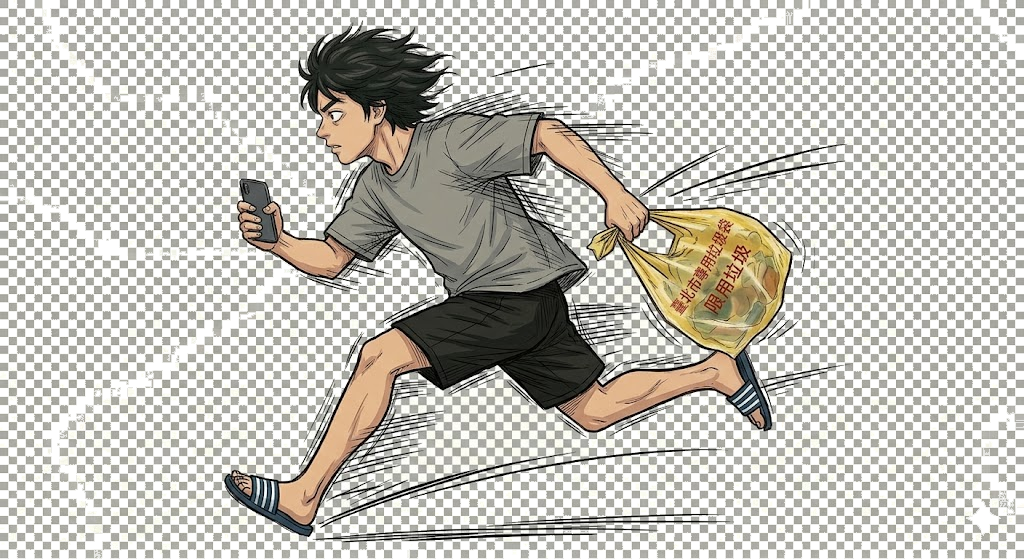
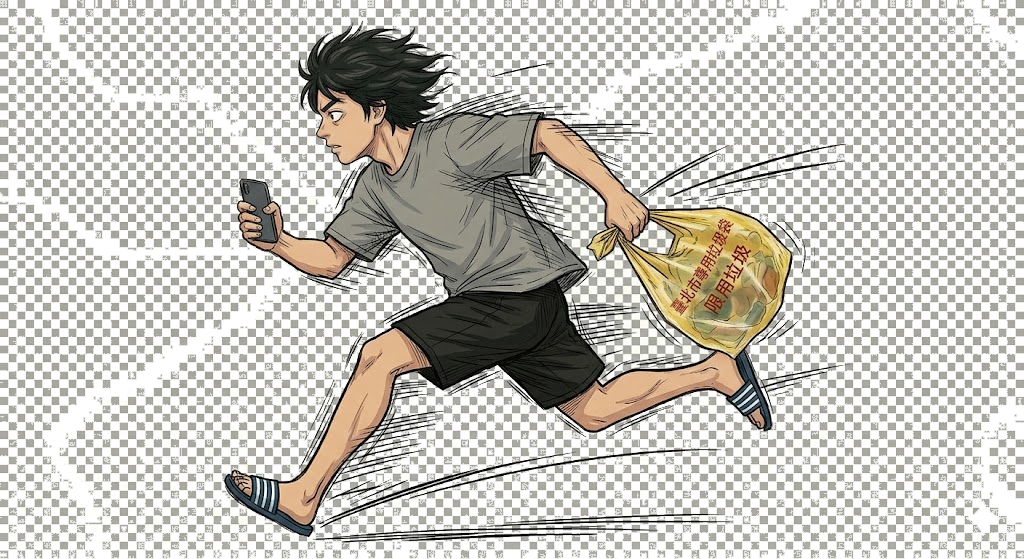
Player run sprite: cleaner alpha + dedicated left-facing variant
- New 'run' profile in strip-all-chars.cjs (tol 40, paintedSat 38) —
  the run frame's motion-line fan was clipping background gaps with
  the prior 'flat' profile (tol 28). Cleared 49.8% (was 40.3%); the
  white smudge under the back foot is gone.
- Generated player_run_side_left.png by horizontal flip of the
  cleaned right-facing sprite. Saved alongside player_run_side.png.
- PreloadScene loads the new asset under key 'player-run-left'.
- Player.setFacing(dir) + Player.urgent() now swap to the flipped
  texture when facing='left' instead of mirror-flipping the
  container — keeps asymmetric details (bag in right hand, motion
  fan trailing behind) painted correctly on both directions. Walk
  + idle still use scale flip since they don't have a left variant.
- StreetScene LEFT/RIGHT keyboard + tap buttons now call
  setFacing('left'|'right') so the run sprite tracks movement.

Audio: investigated the EN BGM / mom voice silence report — both are
fully lang-agnostic in code (BGM tracks have no lang gate; mom voice
ResultScene picks the correct lang-suffixed key when audio cache is
loaded). Earlier tests confirmed mom-d5-caught-en plays cleanly with
5.59s duration. The user's report most likely reflects a stale itch
deploy from before the EN voice files were bundled.

diff --git a/src/objects/Player.js b/src/objects/Player.js
@@ -51,15 +51,34 @@ export default class Player extends Phaser.GameObjects.Container {
   }
 
   setFacing(dir) {
-    const scale = dir === 'left' ? -1 : 1;
-    this.setScale(scale, 1);
+    this.facing = dir === 'left' ? 'left' : 'right';
+    // If we're currently in a "run" pose AND a dedicated left-run texture
+    // exists, swap to it instead of mirror-flipping the container — keeps
+    // asymmetric details (bag in right hand, motion-line fan) painted
+    // correctly on both sides.
+    if (this.spriteMode && this.sprite && this.runMode) {
+      const tex = this.facing === 'left' && this.scene.textures.exists('player-run-left')
+        ? 'player-run-left'
+        : 'player-run';
+      this.sprite.setTexture(tex);
+      this.setScale(1, 1);
+      return;
+    }
+    // Walk/idle frames don't have a flipped variant — fall back to scale flip.
+    this.setScale(this.facing === 'left' ? -1 : 1, 1);
   }
 
   urgent() {
     this.bobTween.timeScale = 2.5;
     if (this.spriteMode && this.scene.textures.exists('player-run')) {
       if (this.walkTimer) { this.walkTimer.remove(false); this.walkTimer = null; }
-      this.sprite.setTexture('player-run');
+      this.runMode = true;
+      const tex = this.facing === 'left' && this.scene.textures.exists('player-run-left')
+        ? 'player-run-left'
+        : 'player-run';
+      this.sprite.setTexture(tex);
+      // running poses are dedicated per-direction; cancel any container flip
+      this.setScale(1, 1);
     } else if (this.spriteMode) {
       this.walk();
     }
@@ -67,6 +86,7 @@ export default class Player extends Phaser.GameObjects.Container {
 
   calm() {
     this.bobTween.timeScale = 1;
+    this.runMode = false;
     this.idle();
   }
 

diff --git a/src/scenes/StreetScene.js b/src/scenes/StreetScene.js
@@ -98,11 +98,13 @@ export default class StreetScene extends Phaser.Scene {
       fontFamily: 'sans-serif', fontSize: '12px', color: '#999',
     }).setOrigin(0.5);
 
-    // Tap buttons — mobile + mouse affordance alongside keyboard.
+    // Tap buttons — mobile + mouse affordance alongside keyboard. Each
+    // movement side also flips the player's facing so the run-pose sprite
+    // points where they're going (uses the dedicated left-run texture).
     const btnDefs = [
-      { label: '←', x: w / 2 - 140, action: () => { this.player.x = Math.max(60, this.player.x - 18); } },
+      { label: '←', x: w / 2 - 140, action: () => { this.player.setFacing('left');  this.player.x = Math.max(60, this.player.x - 18); } },
       { label: I18n.t('street.btn_throw'), x: w / 2, action: () => this.throwBag() },
-      { label: '→', x: w / 2 + 140, action: () => { this.player.x = Math.min(w - 60, this.player.x + 24); } },
+      { label: '→', x: w / 2 + 140, action: () => { this.player.setFacing('right'); this.player.x = Math.min(w - 60, this.player.x + 24); } },
     ];
     btnDefs.forEach((b) => {
       const bg = this.add.rectangle(b.x, h - 18, 100, 28, 0x1a1a2a, 0.7)
@@ -195,9 +197,11 @@ export default class StreetScene extends Phaser.Scene {
       this.scene.launch(SCENES.PAUSE, { resumeKey: SCENES.STREET });
     });
     this.input.keyboard.on('keydown-LEFT', () => {
+      this.player.setFacing('left');
       this.player.x = Math.max(60, this.player.x - 18);
     });
     this.input.keyboard.on('keydown-RIGHT', () => {
+      this.player.setFacing('right');
       this.player.x = Math.min(w - 60, this.player.x + 24);
     });
 

diff --git a/src/scenes/PreloadScene.js b/src/scenes/PreloadScene.js
@@ -81,6 +81,7 @@ export default class PreloadScene extends Phaser.Scene {
     this.load.image('player-walk-3', 'assets/images/char/player_walk_side_03.png');
     this.load.image('player-walk-4', 'assets/images/char/player_walk_side_04.png');
     this.load.image('player-run', 'assets/images/char/player_run_side.png');
+    this.load.image('player-run-left', 'assets/images/char/player_run_side_left.png');
     this.load.image('mom-angry', 'assets/images/char/mom_angry.png');
     this.load.image('mom-proud', 'assets/images/char/mom_proud.png');
     this.load.image('mom-satisfied', 'assets/images/char/mom_satisfied.png');
